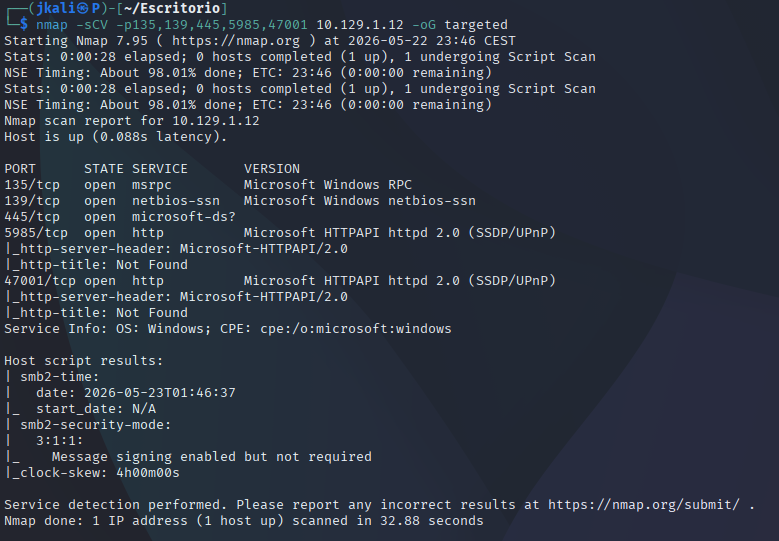
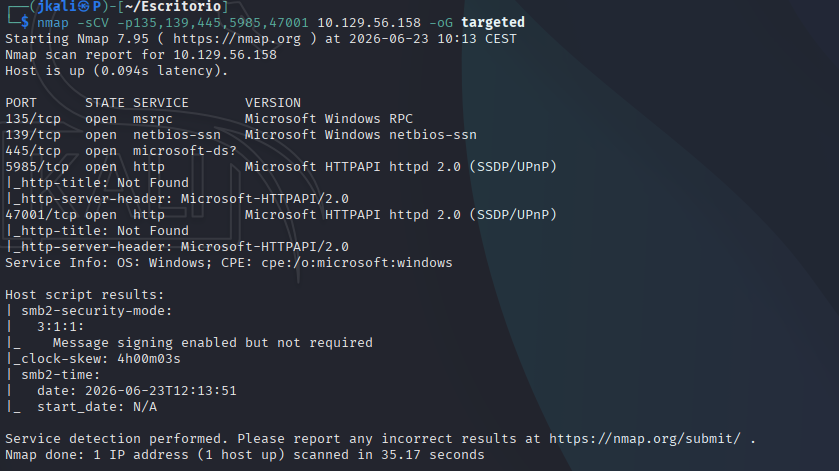
feat(finish): Compleate the Dancing writeup

Changed region(s): [[0.0, 0.0, 0.7702, 0.8917], [0.0, 0.9214, 0.9551, 0.9809]]

diff --git a/HackTheBox/Dancing/README.md b/HackTheBox/Dancing/README.md
@@ -20,7 +20,8 @@ Now lets see deeper information about versions and services.
 5985/tcp  - WinRM    - Windows Remote Management, allows remote command execution
 47001/tcp - WinRM    - Alternative port for WinRM
 ```
-With this information, the most obvious one is the SMB.
+With this information, the most obvious one is the SMB running on port 445. 
+> It sticks out the service which port 445 is running, "microsoftds", which should contain shared files with sensible info
 
 ## SMB
 
@@ -30,3 +31,35 @@ With this information, the most obvious one is the SMB.
 smbcclient -L <ip> -N
 ```
 ![alt text](./img/smb.png)
+
+- The next step is to try accessing each shared data:
+
+1. 
+![alt text](./img/smb_admin.png)
+
+2. 
+![alt text](./img/smb_C.png)
+
+3. 
+![alt text](./img/smb_ws.png)
+
+- The only data we have access to is 'WorkShares'. Let's see what's inside:
+
+First of all, we need to see which comands are available with `help` comand.
+
+![alt text](./img/smb_help.png)
+
+Once we now the comands we can use, its time to navigate the shared resource.
+
+![alt text](./img/smb_content.png)
+
+It can be seen that there are some directories, inside there's:
+
+Amy.J:  
+![alt text](./img/smb_amy.png)
+
+James.P:  
+![alt text](./img/smb_james.png)
+
+
+> The <u>single</u> flag is inside the last enumerated directory
